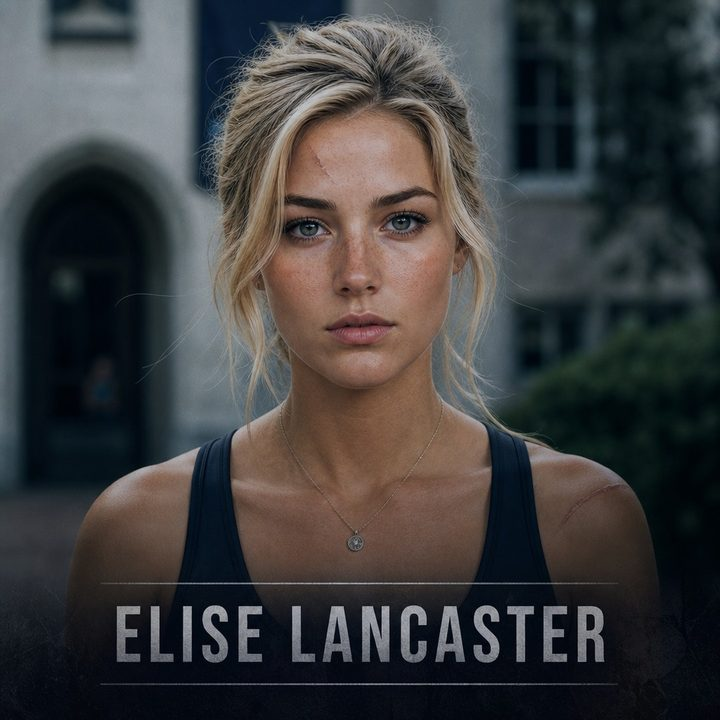
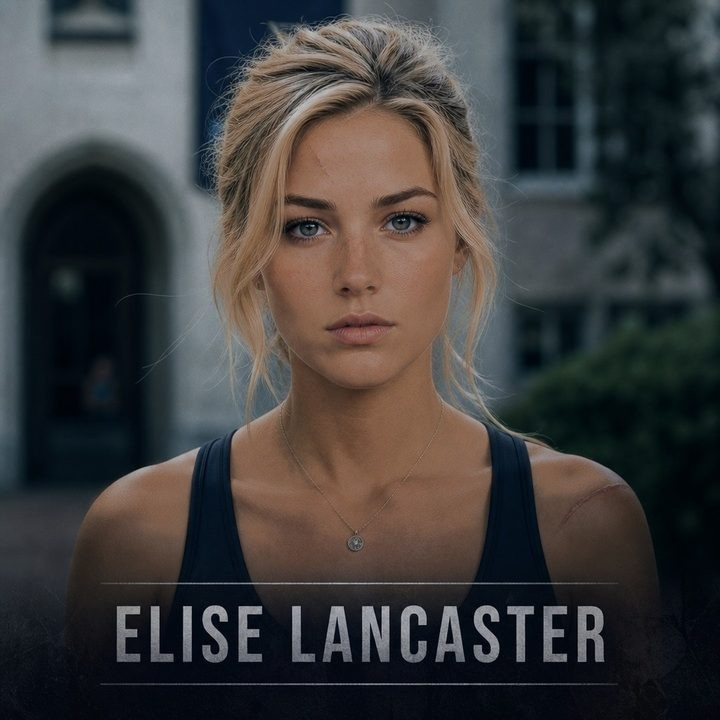
Update Elise on the live wheel and drop the name that was sitting under it.

diff --git a/components/CharacterWheel.js b/components/CharacterWheel.js
@@ -1,5 +1,5 @@
 import { useEffect, useRef, useState } from "react";
-import { BOOK_TWO_TABLE, CHAPTER_ONE_WHEEL, MYSTERY_CHAIR_SRC, WHEEL_MUSIC } from "@/lib/chapterOneWheel";
+import { CHAPTER_ONE_WHEEL, MYSTERY_CHAIR_SRC, WHEEL_MUSIC } from "@/lib/chapterOneWheel";
 import { duckAmbientForNarration, restoreAmbientAfterNarration, markHtmlAudioUnlocked, primeAudioElement } from "@/lib/cinematicAudio";
 
 const PLAT = "#c9ced6";
@@ -568,15 +568,6 @@ export default function CharacterWheel({ faces = CHAPTER_ONE_WHEEL }) {
           </div>
         </div>
         <p className="character-wheel-credit">{WHEEL_MUSIC.credit}</p>
-        <div className="character-wheel-book2">
-          <p className="character-wheel-book2-label">Book Two — not on this wheel</p>
-          {BOOK_TWO_TABLE.map((row) => (
-            <p key={row.name} className="character-wheel-book2-row">
-              <strong>{row.name}</strong>
-              {row.line ? ` · ${row.line}` : ""}
-            </p>
-          ))}
-        </div>
       </div>
       <style>{`
         .character-wheel-card {
@@ -758,30 +749,6 @@ export default function CharacterWheel({ faces = CHAPTER_ONE_WHEEL }) {
           font-size: 0.68rem;
           letter-spacing: 0.04em;
           margin: 0.35rem 0 0.25rem;
-        }
-        .character-wheel-book2 {
-          position: relative;
-          z-index: 5;
-          text-align: center;
-          margin: 0.15rem 0 0.45rem;
-          padding: 0.45rem 0.6rem 0.5rem;
-          border-top: 1px solid rgba(201, 206, 214, 0.18);
-        }
-        .character-wheel-book2-label {
-          margin: 0;
-          color: ${GOLD};
-          font-size: 0.72rem;
-          letter-spacing: 0.06em;
-          text-transform: uppercase;
-        }
-        .character-wheel-book2-row {
-          margin: 0.28rem 0 0;
-          color: ${PLAT};
-          font-size: 0.88rem;
-        }
-        .character-wheel-book2-row strong {
-          color: ${GOLD};
-          font-weight: 700;
         }
       `}</style>
     </figure>
